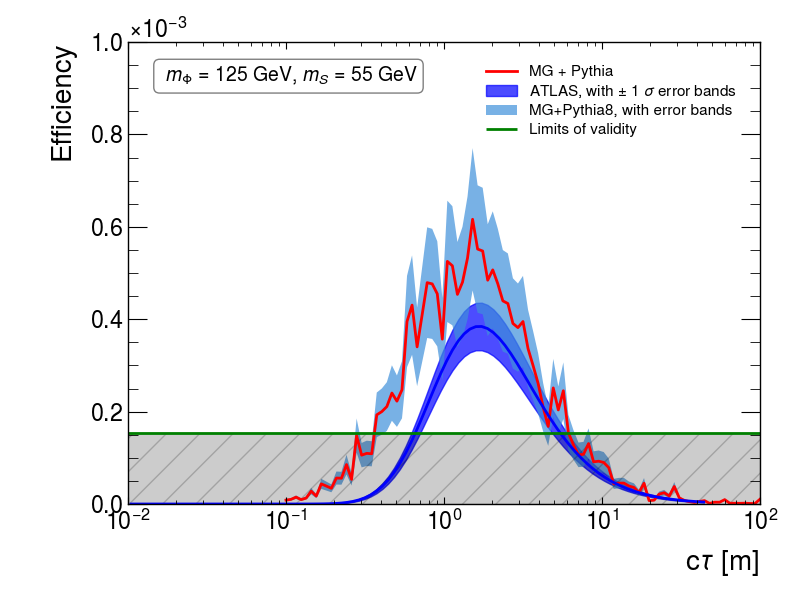
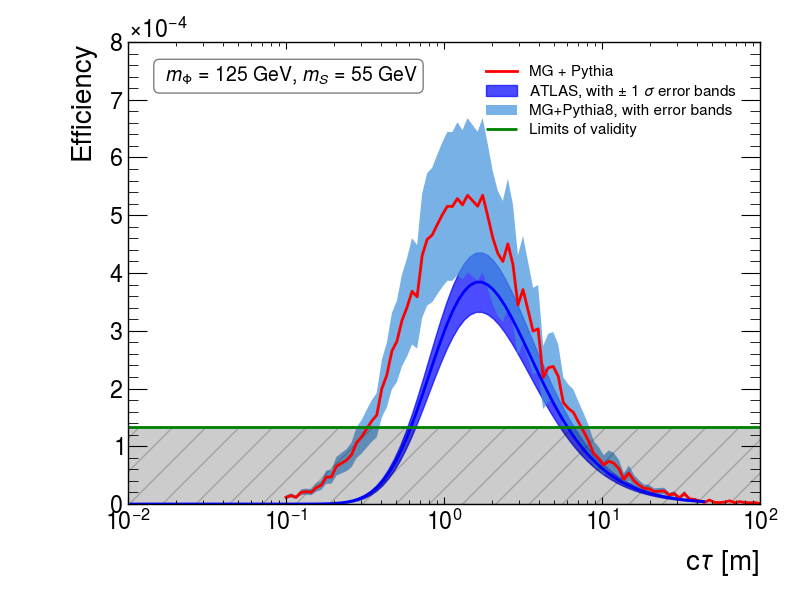
Fixes for Higgs plot

diff --git a/DisplacedJets/ATLAS-EXOT-2019-23/plotEfficiencies.py b/DisplacedJets/ATLAS-EXOT-2019-23/plotEfficiencies.py
@@ -44,7 +44,7 @@ def getATLASdata(mPhi,mS):
                     (125,55) : "./ATLAS_data/HEP_Limits/HEPData-ins2043503-v3-Figure_10a_125_55.root"
                     }
 
-    limitBranchExpDict = {(1000,275) : "Figure 6f of Aux. Mat./Graph1D_y1;1",
+    limitXSecExpDict = {(1000,275) : "Figure 6f of Aux. Mat./Graph1D_y1;1",
                         (1000,475) : "Figure 6e of Aux. Mat./Graph1D_y1;1",
                         (600,150) : "Figure 6b of Aux. Mat./Graph1D_y1;1",
                         (400,100) : "Figure 6a of Aux. Mat./Graph1D_y1;1",
@@ -52,7 +52,7 @@ def getATLASdata(mPhi,mS):
                         (125,55) : "Figure 10a/Graph1D_y1;1"
                     }
 
-    limitBranchObsDict = {(1000,275) : "Figure 6f of Aux. Mat./Graph1D_y2;1",
+    limitXSecObsDict = {(1000,275) : "Figure 6f of Aux. Mat./Graph1D_y2;1",
                         (1000,475) : "Figure 6e of Aux. Mat./Graph1D_y2;1",
                         (600,150) : "Figure 6b of Aux. Mat./Graph1D_y2;1",
                         (400,100) : "Figure 6a of Aux. Mat./Graph1D_y2;1",
@@ -71,12 +71,18 @@ def getATLASdata(mPhi,mS):
 
     File_HEP_limit = limitFileDict[massPair]
     file_HEP_limit = uproot.open(File_HEP_limit) # open the file from HEP data for the limits
-    Branch_HEP_limit = limitBranchExpDict[massPair]
-    branch_HEP_limit_exp = file_HEP_limit[Branch_HEP_limit] # open the branch
-    Branch_HEP_limit = limitBranchObsDict[massPair]
-    branch_HEP_limit_obs = file_HEP_limit[Branch_HEP_limit]
+    xsec_HEP_limit = limitXSecExpDict[massPair]
+    xsec_HEP_limit_exp = file_HEP_limit[xsec_HEP_limit] # open the branch
+    xsec_HEP_limit = limitXSecObsDict[massPair]
+    xsec_HEP_limit_obs = file_HEP_limit[xsec_HEP_limit]
+    # The plot for the Higgs mass value actually has limits on the Higgs BR.
+    # Therefore, to convert it to limits on sigma*BR, we must multiply by the Higgs xsec (in pb)
+    if int(mPhi) == 125:
+        higgsXSec = 48.6 # Value quoted in Fig.10 of 2203.01009
+        xsec_HEP_limit_exp._bases[0]._members['fY'] = xsec_HEP_limit_exp._bases[0]._members['fY']*higgsXSec
+        xsec_HEP_limit_obs._bases[0]._members['fY'] = xsec_HEP_limit_obs._bases[0]._members['fY']*higgsXSec
 
-    return data_HEP, branch_HEP_limit_exp, branch_HEP_limit_obs
+    return data_HEP, xsec_HEP_limit_exp, xsec_HEP_limit_obs
 
 
 
@@ -121,7 +127,7 @@ def plotEffs(effFile,mPhi,mS,outFile,sr='high-ET'):
     plt.savefig(outFile)
 
 
-def plotXsecLimit(effFile,mPhi,mS,outFile,sr='high-ET',factor=1):
+def plotXsecLimit(effFile,mPhi,mS,outFile,sr='high-ET'):
 
     _, branch_HEP_limit_exp, branch_HEP_limit_obs = getATLASdata(mPhi,mS)
         
@@ -132,14 +138,13 @@ def plotXsecLimit(effFile,mPhi,mS,outFile,sr='high-ET',factor=1):
     
     _, ax = plt.subplots()
 
-    # nsUL_obs = 0.5630 * 26 * factor (outdated value)
     # Upper limits computed using abcd_pyhf and the numbers from Table 4 in 2203.01009
     if sr == 'high-ET':
-        nsUL_obs = 27.44 * factor
-        nsUL_exp = 17.31 * factor
+        nsUL_obs = 27.44
+        nsUL_exp = 17.31
     else:
-        nsUL_obs = 32.98 * factor
-        nsUL_exp = 21.51 * factor
+        nsUL_obs = 32.98
+        nsUL_exp = 21.51
 
     Crr_Sec_obs = (nsUL_obs)/((np.array(eff)) * 139e3 ) # Luminosity = 139e3 fb**(-1)
     # Crr_Sec_exp = (nsUL_exp)/((np.array(eff)) * 139e3 ) # Luminosity = 139e3 fb**(-1)
@@ -149,7 +154,7 @@ def plotXsecLimit(effFile,mPhi,mS,outFile,sr='high-ET',factor=1):
                     #  alpha=0.4, color='r')
     # plt.plot(tauN, Crr_Sec_exp, 'r', label ='Expected (Recast)', linewidth = 2, linestyle='dashed')
 
-    if branch_HEP_limit_exp is not None:
+    if branch_HEP_limit_obs is not None:
         # plt.plot(branch_HEP_limit_exp.values(axis='both')[0], branch_HEP_limit_exp.values(axis='both')[1], 'b', label ='Expected (HEPData)', linewidth = 2, linestyle='dashed')
         plt.plot(branch_HEP_limit_obs.values(axis='both')[0], branch_HEP_limit_obs.values(axis='both')[1], 'b', label ='Observed (HEPData)', linewidth = 2)
     
@@ -202,14 +207,10 @@ if __name__ == "__main__":
     if level in levels:       
         logger.setLevel(level = levels[level])
 
-    if int(args.mPhi) == 125:
-        factor = 0.048
-    else:
-        factor = 1.0
 
     if args.effPlot is not None:
         plotEffs(args.inputfile,args.mPhi,args.mS,outFile=args.effPlot,sr=args.signalregion)
         logger.info(f"Efficiency plot saved to {args.effPlot}")
     if args.xsecPlot is not None:
-        plotXsecLimit(args.inputfile,args.mPhi,args.mS,outFile=args.xsecPlot,sr=args.signalregion,factor=factor)
+        plotXsecLimit(args.inputfile,args.mPhi,args.mS,outFile=args.xsecPlot,sr=args.signalregion)
         logger.info(f"Cross-section limit plot saved to {args.xsecPlot}")

diff --git a/DisplacedJets/ATLAS-EXOT-2019-23/validation/README.md b/DisplacedJets/ATLAS-EXOT-2019-23/validation/README.md
@@ -12,36 +12,36 @@ The results below were obtaining using the Method 2 described [here](../README.m
  * $m_{\Phi} = 125$ GeV and $m_S = 55$ GeV:
 
  <p float="center">
-     <img src="./effs/hahm_125_55_delphes_events_HTcut_effs.png" width=80% height=80% />
-     <img src="./effs/hahm_125_55_delphes_events_HTcut_xsec.png" width=80% height=80% />
+     <img src="./effs/hahm_125_55_delphes_events_HTcut_effs.png" width=40% height=40% />
+     <img src="./effs/hahm_125_55_delphes_events_HTcut_xsec.png" width=40% height=40% />
  </p>
 
  * $m_{\Phi} = 200$ GeV and $m_S = 50$ GeV:
 
  <p float="center">
-     <img src="./effs/hahm_200_50_delphes_events_HTcut_effs.png" width=80% height=80% />
-     <img src="./effs/hahm_200_50_delphes_events_HTcut_xsec.png" width=80% height=80% />
+     <img src="./effs/hahm_200_50_delphes_events_HTcut_effs.png" width=40% height=40% />
+     <img src="./effs/hahm_200_50_delphes_events_HTcut_xsec.png" width=40% height=40% />
  </p>
 
  * $m_{\Phi} = 400$ GeV and $m_S = 100$ GeV:
 
  <p float="center">
-     <img src="./effs/hahm_400_100_delphes_events_HTcut_effs.png" width=80% height=80% />
-     <img src="./effs/hahm_400_100_delphes_events_HTcut_xsec.png" width=80% height=80% />
+     <img src="./effs/hahm_400_100_delphes_events_HTcut_effs.png" width=40% height=40% />
+     <img src="./effs/hahm_400_100_delphes_events_HTcut_xsec.png" width=40% height=40% />
  </p>
 
   * $m_{\Phi} = 600$ GeV and $m_S = 150$ GeV:
 
  <p float="center">
-     <img src="./effs/hahm_600_150_delphes_events_HTcut_effs.png" width=80% height=80% />
-     <img src="./effs/hahm_600_150_delphes_events_HTcut_xsec.png" width=80% height=80% />
+     <img src="./effs/hahm_600_150_delphes_events_HTcut_effs.png" width=40% height=40% />
+     <img src="./effs/hahm_600_150_delphes_events_HTcut_xsec.png" width=40% height=40% />
  </p>
 
  * $m_{\Phi} = 1$ TeV and $m_S = 275$ GeV:
 
  <p float="center">
-     <img src="./effs/hahm_1000_275_delphes_events_HTcut_effs.png" width=80% height=80% />
-     <img src="./effs/hahm_1000_275_delphes_events_HTcut_xsec.png" width=80% height=80% />
+     <img src="./effs/hahm_1000_275_delphes_events_HTcut_effs.png" width=40% height=40% />
+     <img src="./effs/hahm_1000_275_delphes_events_HTcut_xsec.png" width=40% height=40% />
  </p>
  
 
@@ -49,6 +49,6 @@ The results below were obtaining using the Method 2 described [here](../README.m
 
  
  <p float="center">
-     <img src="./effs/hahm_1000_475_delphes_events_HTcut_effs.png" width=80% height=80% />
-     <img src="./effs/hahm_1000_475_delphes_events_HTcut_xsec.png" width=80% height=80% />
+     <img src="./effs/hahm_1000_475_delphes_events_HTcut_effs.png" width=40% height=40% />
+     <img src="./effs/hahm_1000_475_delphes_events_HTcut_xsec.png" width=40% height=40% />
  </p>
